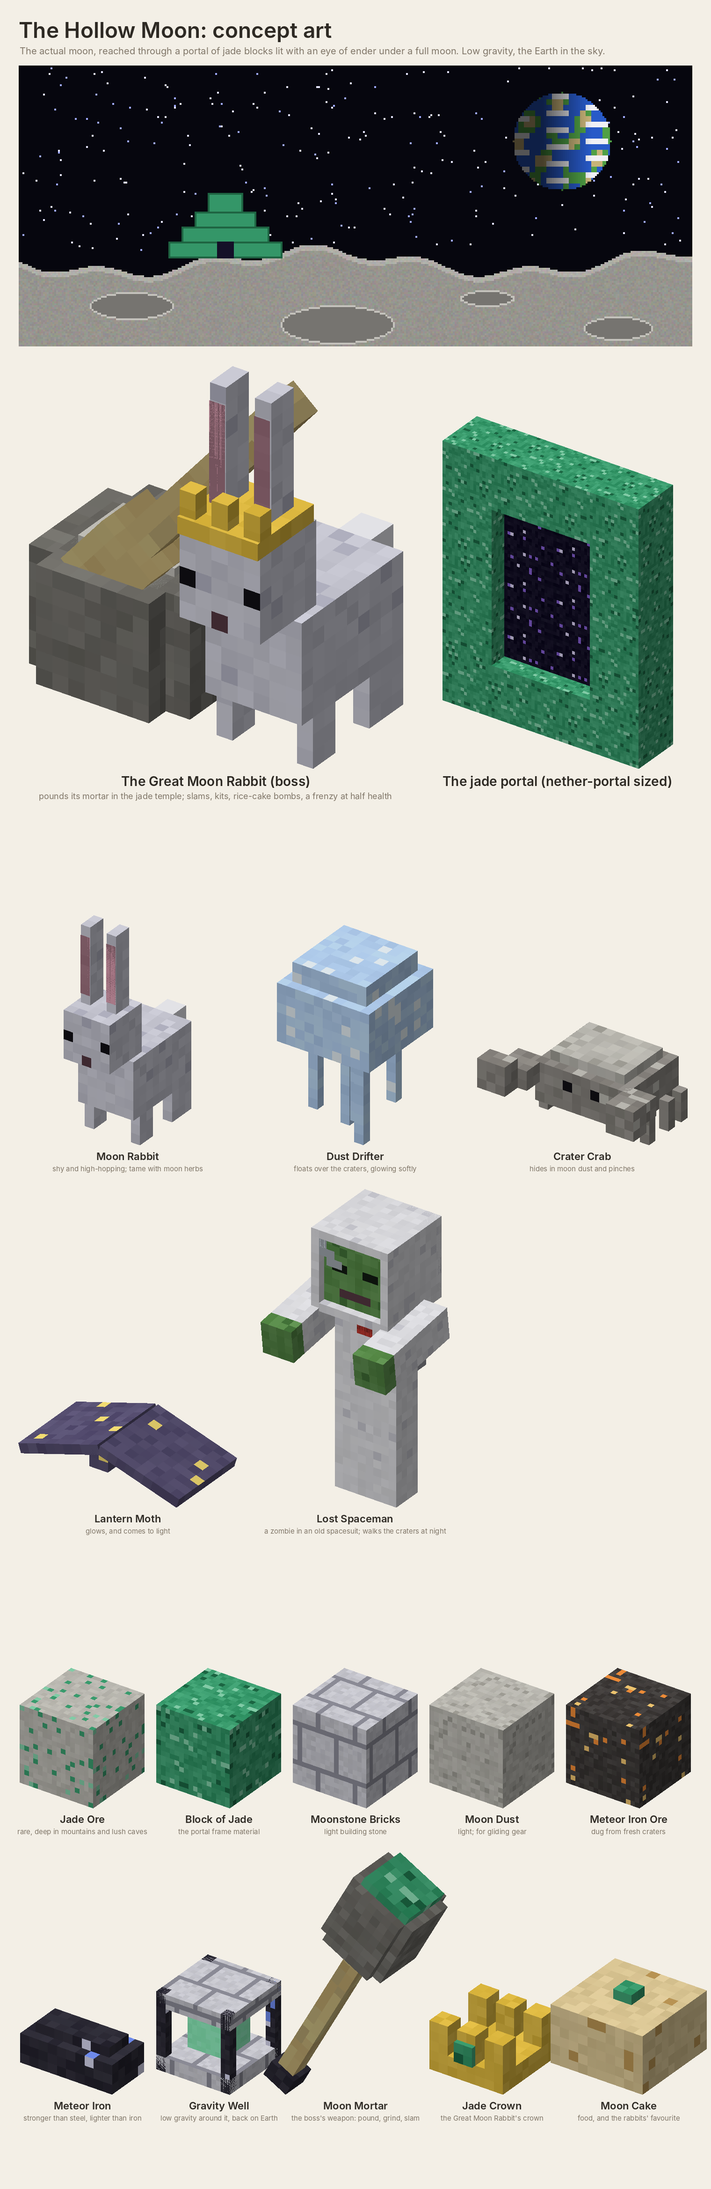
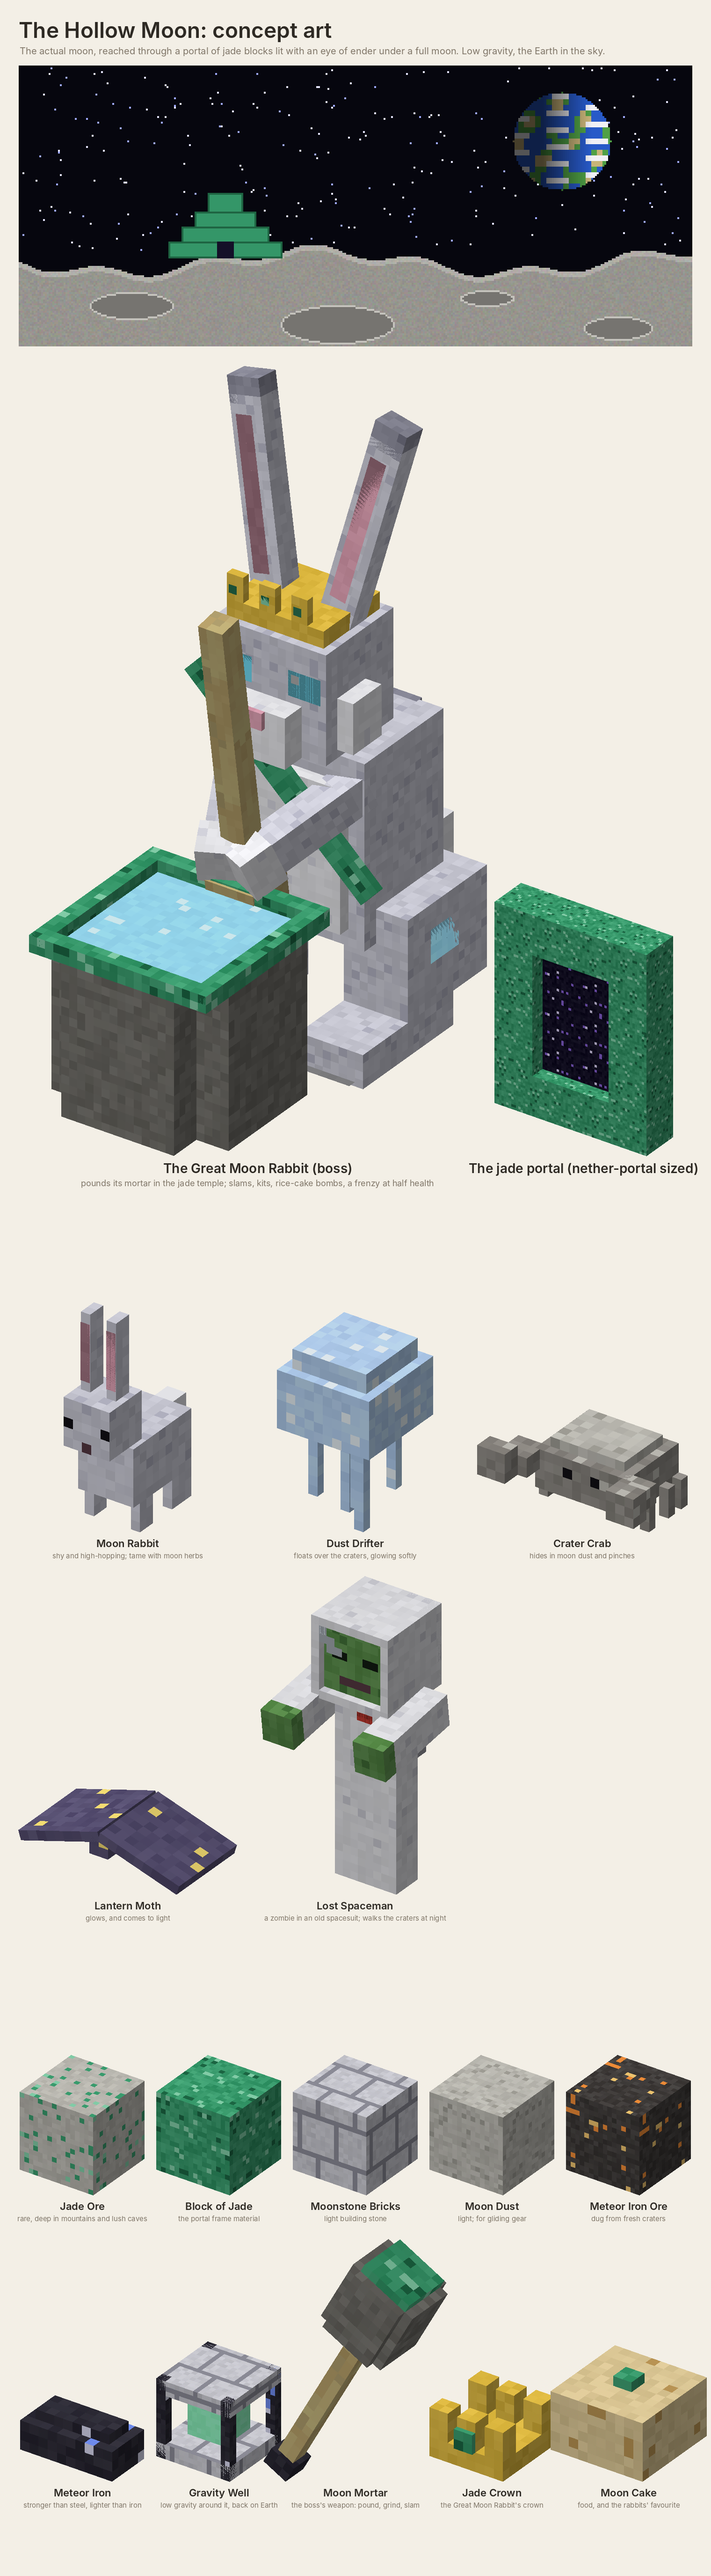
Moon concept: a far more detailed Great Moon Rabbit boss (upright, pestle and jade-rimmed mortar, glowing eyes and markings, sash and crown)
Claude-Session: https://claude.ai/code/session_01M5QtgiQGYPBXfdb72XCowG

diff --git a/tools/moon_concept.py b/tools/moon_concept.py
@@ -58,6 +58,52 @@ def rabbit(m, big=False):
         m.box(DUST, (-13, 16.5, 0), (6, 1, 4))
         p = m.part([-6, 12, 0], (0, 0, 0.7)); m.box(WOOD, (-1, -10, -1), (2, 16, 2), part=p); m.box(WOOD, (-2, 4, -2), (4, 4, 4), part=p)
         m.box(GOLD, (-2.5, 9, -6.2), (5, 1, 5.4)); [m.box(GOLD, (x, 7.5, -6), (1, 1.5, 1)) for x in (-2.5, -0.5, 1.5)]   # a crown
+WHITE_FUR = noise((244, 244, 248), 6, 20, [((226, 226, 236), 14)])
+DARK_FUR = noise((150, 150, 166), 10, 21, [((120, 120, 138), 14)])
+MOON_GLOW = noise((160, 230, 255), 6, 22, [((220, 250, 255), 10)])
+EYE_GLOW = Image.new("RGBA", (16, 16), (120, 230, 255, 255))
+
+def great_rabbit_detailed():
+    """The boss, built like the ender dragon is: far more parts than an ordinary mob. It sits upright, as the moon
+    rabbit of legend does, its pestle raised over a great jade-rimmed mortar of glowing moon dust."""
+    m = Model(30)
+    # hind quarters and feet
+    for x in (-13, 5):
+        m.box(SILVER, (x, 30, -2), (8, 12, 14)); m.box(MOON_GLOW, (x + (8 if x > 0 else -0.2), 33, 2), (0.2, 4, 5))   # glowing crescent mark
+        m.box(SILVER, (x, 42, -10), (8, 4, 16)); m.box(WHITE_FUR, (x + 1, 45.5, -11), (6, 0.5, 4))                   # long hind feet
+    m.box(WHITE_FUR, (-4, 30, 12), (8, 8, 7))                                                                       # fluffy tail
+    # upright torso, white chest
+    m.box(SILVER, (-9, 12, -4), (18, 22, 14)); m.box(DARK_FUR, (-6, 12, 9.5), (12, 18, 1))                           # back stripe
+    m.box(WHITE_FUR, (-7, 15, -5.5), (14, 17, 2))
+    s1 = m.part([0, 16, -6], (0, 0, 0.75)); m.box(JADE, (-15, -2, -0.5), (30, 3, 1), part=s1)                       # jade sash
+    # head
+    m.box(SILVER, (-7, -2, -8), (14, 13, 12))
+    m.box(WHITE_FUR, (-4, 5, -11), (8, 6, 3)); m.box(PINK, (-1.5, 5, -11.6), (3, 2, 1))                             # muzzle and nose
+    for x in (-9, 7): m.box(WHITE_FUR, (x, 4, -6), (2, 6, 5))                                                      # cheek tufts
+    for x in (-6, 2.5):
+        m.box(EYE_GLOW, (x, 1, -8.3), (3.5, 3, 0.4)); m.box(Image.new("RGBA", (16, 16), (255, 255, 255, 255)), (x + 0.5, 1.3, -8.5), (1, 1, 0.2))
+    for y in (6, 8):                                                                                                 # whiskers
+        for x in (-10, 5): m.box(WHITE_FUR, (x, y, -10.5), (5, 0.4, 0.4))
+    # long ears, tilting outward, pink inside, dark tips
+    for sgn in (-1, 1):
+        e = m.part([sgn * 4, -2, -1], (-0.12, 0, sgn * 0.22))
+        m.box(SILVER, (-2, -22, -1.5), (4, 22, 3), part=e); m.box(PINK, (-1.2, -20, -1.8), (2.4, 17, 0.4), part=e)
+        m.box(DARK_FUR, (-2, -24, -1.5), (4, 3, 3), part=e)
+    # crown
+    m.box(GOLD, (-6, -4, -7), (12, 2, 10))
+    for x in (-6, -2, 2): m.box(GOLD, (x, -7, -7), (2, 3, 1)); m.box(JADE, (x + 0.5, -6, -7.4), (1, 1, 0.4))
+    # forearms reaching forward to grip the pestle
+    for sgn in (-1, 1):
+        a = m.part([sgn * 7, 16, -3], (-1.15, sgn * 0.45, 0))
+        m.box(SILVER, (-2, -1, -2), (4, 13, 4), part=a); m.box(WHITE_FUR, (-2.5, 11, -2.5), (5, 4, 5), part=a)
+    p = m.part([0, 6, -15], (0.15, 0, 0)); m.box(WOOD, (-1.5, -14, -1.5), (3, 32, 3), part=p); m.box(WOOD, (-3, 18, -3), (6, 6, 6), part=p)
+    # the great mortar
+    for (w, d) in ((22, 14), (14, 22)): m.box(STONE_M, (-w / 2, 26, -24 - d / 2), (w, 18, d))
+    m.box(MOON_GLOW, (-9, 25.4, -33), (18, 0.6, 18))                                                                    # glowing dust inside
+    for (x, z, w, d) in ((-11, -35, 22, 2), (-11, -15, 22, 2), (-11, -35, 2, 22), (9, -35, 2, 22)):                 # jade rim
+        m.box(JADE, (x, 24, z), (w, 2, d))
+    return m
+
 def moon_rabbit(): m = Model(1); rabbit(m); return m
 def great_rabbit(): m = Model(2); rabbit(m, True); return m
 def drifter():
@@ -170,10 +216,10 @@ def earth_scene(w=360, h=150, seed=4):
 
 def sheet(out):
     BG, INK, SUB = (243, 239, 230), (46, 42, 36), (128, 118, 104)
-    big = great_rabbit().draw(4.2)
+    big = great_rabbit_detailed().draw(2.1)
     crs = [(n, s, f().draw(sc)) for n, s, f, sc in CREATURES]
     ths = [(n, s, f().draw(sc)) for n, s, f, sc in THINGS]
-    port = portal().draw(0.8)
+    port = portal().draw(0.62)
     scene = earth_scene()
     W = scene.width + 80
     cw1 = (W - 60) // 3; ch1 = max(i.height for _, _, i in crs) + 90
